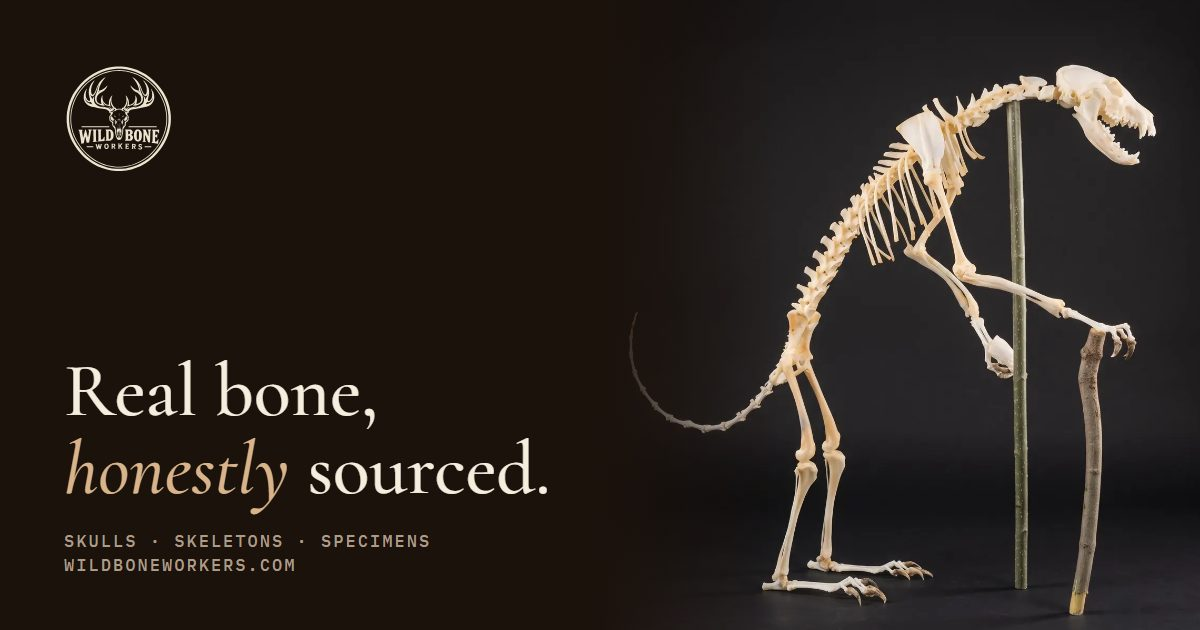
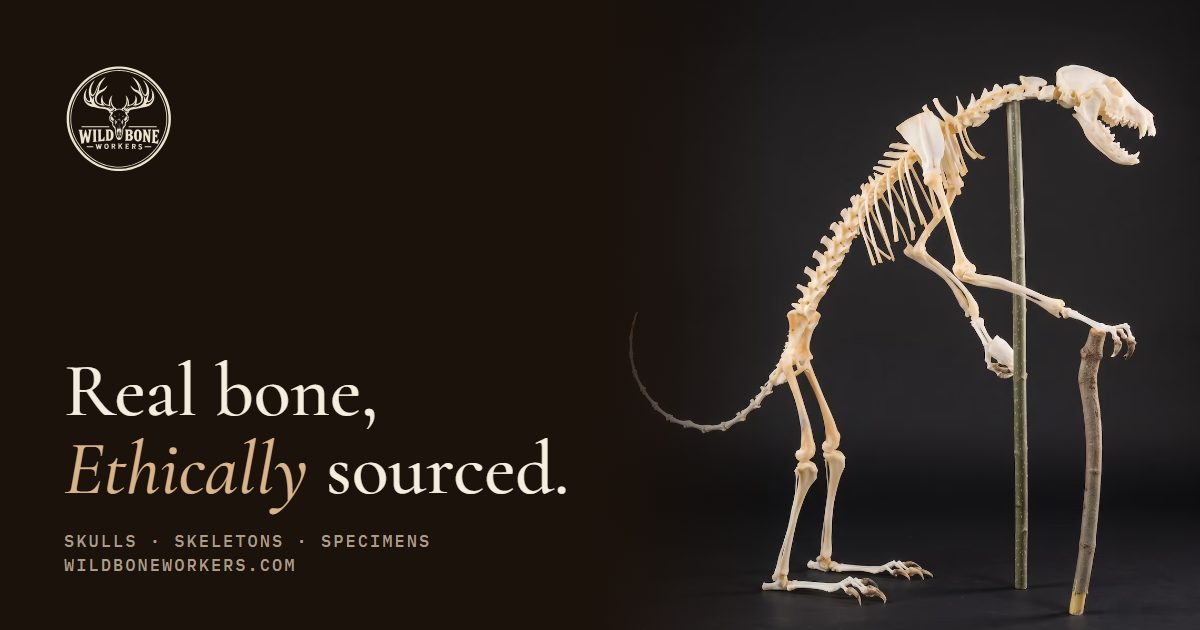
Change homepage headline to 'Ethically sourced'

Changed region(s): [[0.0308, 0.6937, 0.4625, 0.8143]]

diff --git a/index.html b/index.html
@@ -45,7 +45,7 @@
 <div class="wrap hero-grid">
 <div class="hero-copy">
 <span class="label">Osteology · Entomology · Curiosities</span>
-<h1>Real bone,<br><em>honestly</em> sourced.</h1>
+<h1>Real bone,<br><em>Ethically</em> sourced.</h1>
 <p class="hero-lede">Real animal skulls, skeletons and natural specimens for collectors, artists and educators. Every piece is ethically sourced, cleaned by hand and shipped free worldwide.</p>
 <div class="actions">
 <a class="btn btn-light" href="#collection">Browse the collection <span class="arrow">→</span></a>
